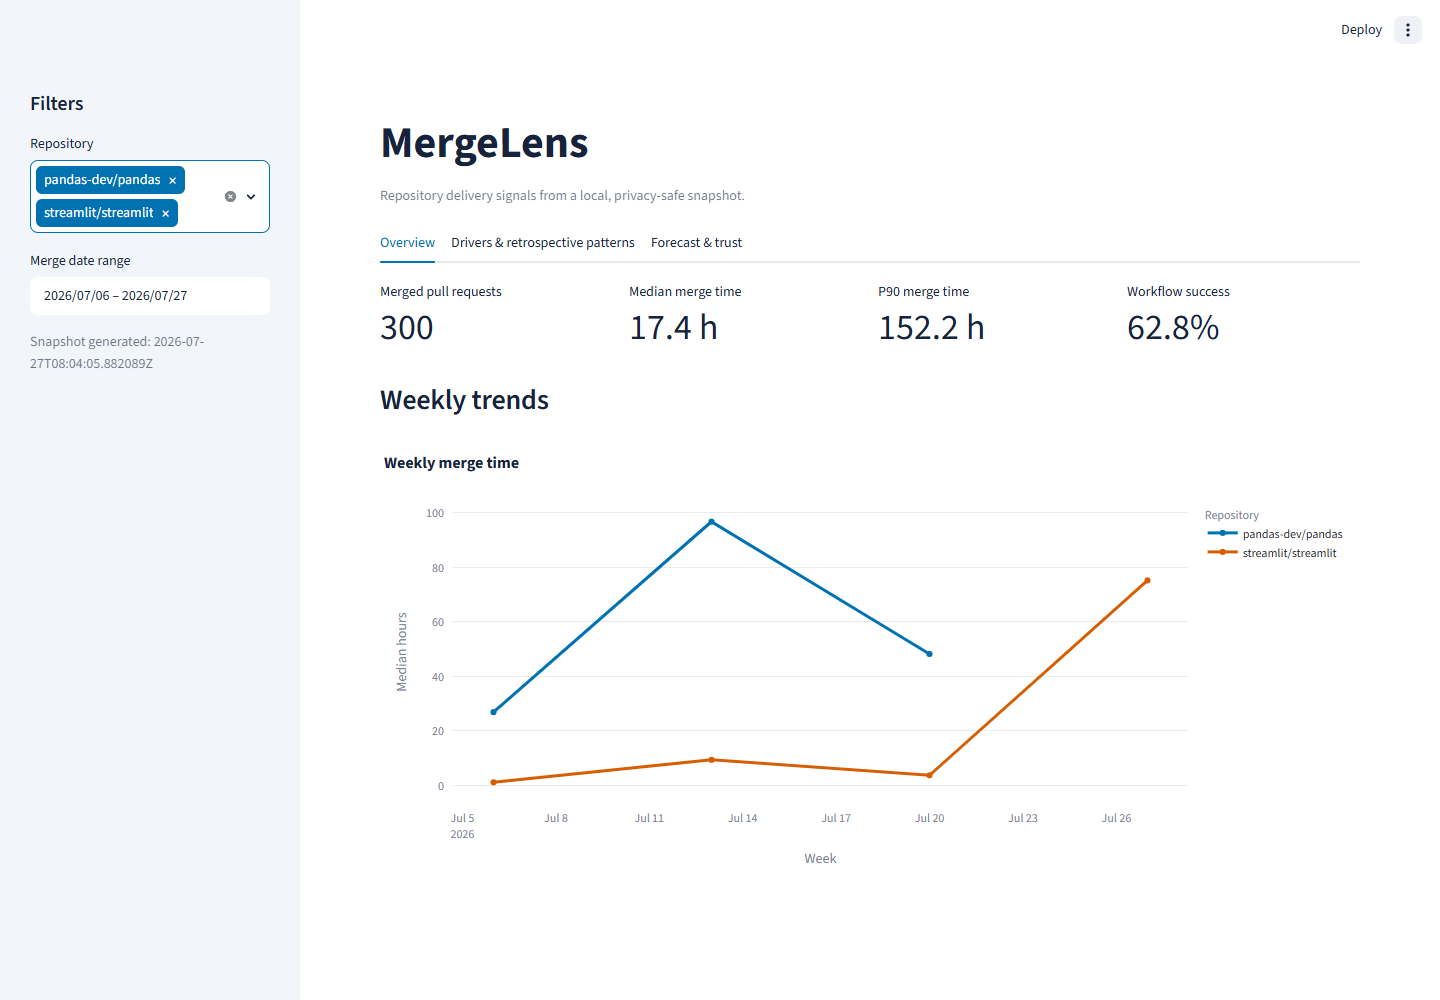
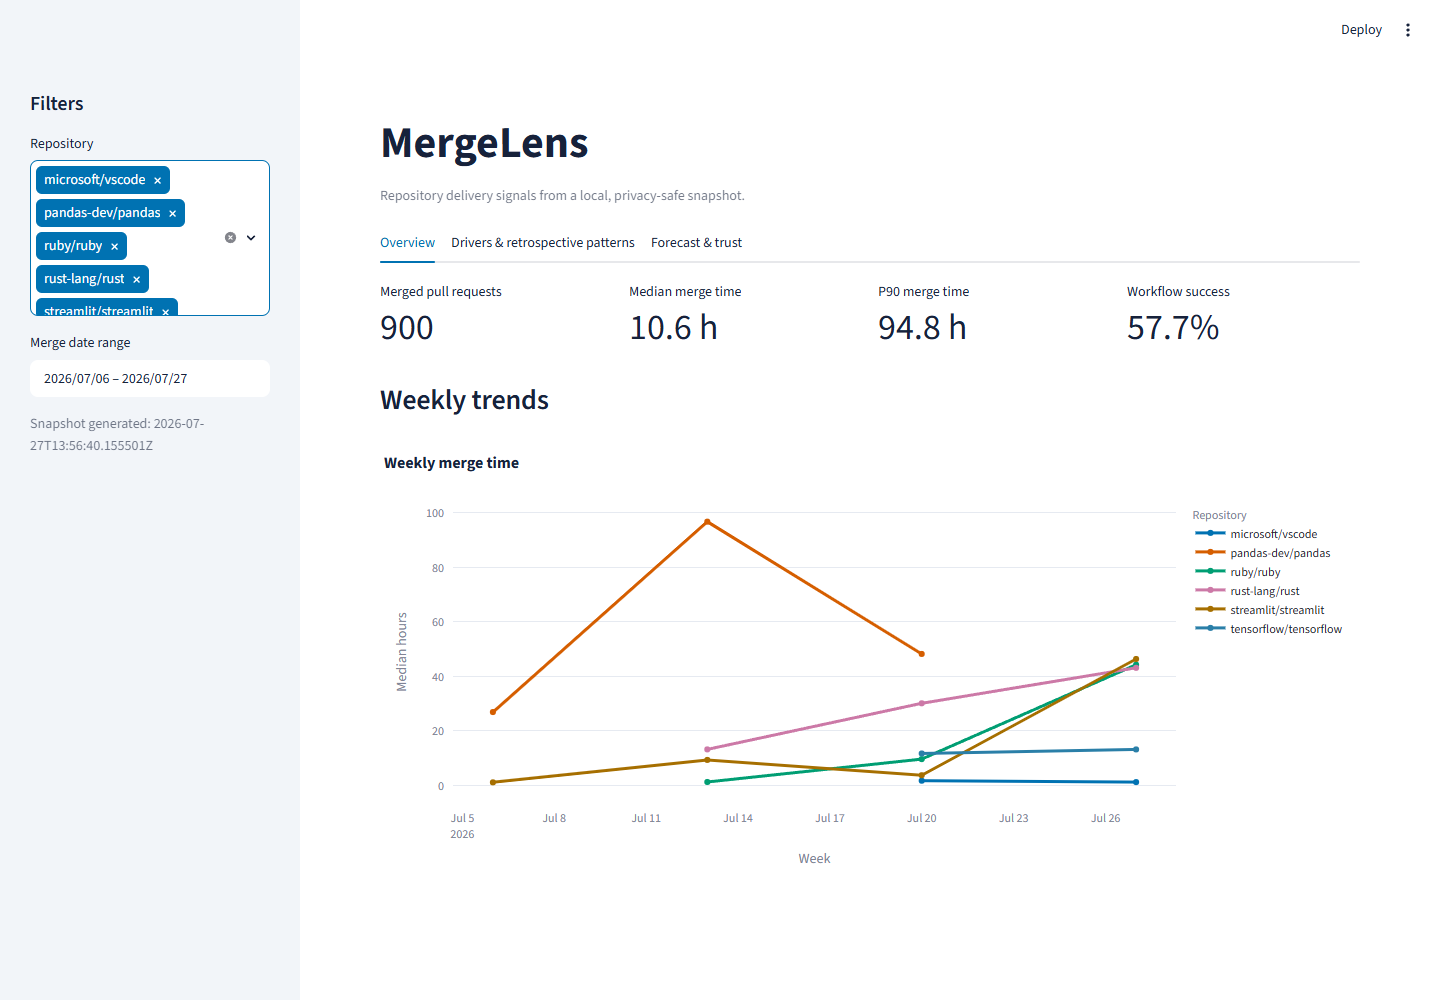
docs: refresh expanded repository browser evidence

diff --git a/docs/quality-evidence.md b/docs/quality-evidence.md
@@ -126,6 +126,27 @@ The percentage shown as `96%` is pytest-cov's table display; `96.10%` is its rep
 total. These are local Windows results for the current branch and are distinct from the initial
 hosted `f987033` result above.
 
+## Active repository expansion local evidence
+
+This section records local Windows browser evidence collected on 2026-07-27 for
+`codex/add-active-repositories`. The committed snapshot contains 900 pull-request rows and 560
+workflow-run rows and was generated at `2026-07-27T13:56:40.155501Z`.
+
+A named Playwright CLI session (`active-repositories`) verified:
+
+- the `Repository` multiselect exposed exactly the sorted choices `microsoft/vscode`,
+  `pandas-dev/pandas`, `ruby/ruby`, `rust-lang/rust`, `streamlit/streamlit`, and
+  `tensorflow/tensorflow`;
+- all six repositories produced the expected 900 merged pull requests, while selecting only
+  `microsoft/vscode` produced 150 merged pull requests without an application exception;
+- `Overview`, `Drivers & retrospective patterns`, and `Forecast & trust` all rendered
+  successfully;
+- the browser console contained 0 errors; and
+- the restored 1440x1000 Overview was captured as `docs/images/dashboard.png` (PNG, 91,844
+  bytes).
+
+This is local evidence for `codex/add-active-repositories`, not deployment or CI evidence.
+
 ## Verified live deployment
 
 Public URL:
